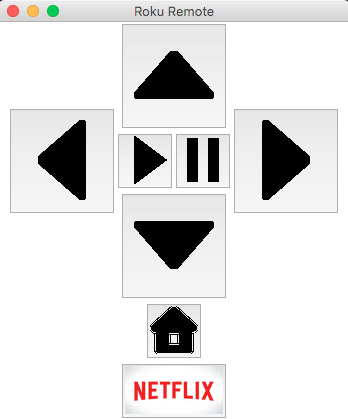
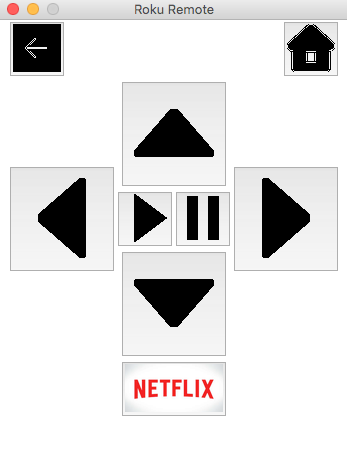
Add home and back button to top

diff --git a/rokuRemote.py b/rokuRemote.py
@@ -56,91 +56,94 @@ class Application(Frame):
 
     def createWidgets(self):
 
-        #TODO: implement search?
-        
+        # TODO: implement search?
+
         # create images for buttons
-        home_button = Image.open("buttons/home_button.png")
+        back_button = Image.open('buttons/back_button.png')
+        back_button = back_button.resize((50, 50), Image.ANTIALIAS)
+        self.back_button = ImageTk.PhotoImage(back_button)
+        home_button = Image.open('buttons/home_button.png')
         home_button = home_button.resize((50, 50), Image.ANTIALIAS)
         self.home_button = ImageTk.PhotoImage(home_button)
         self.left_button = ImageTk.PhotoImage(
-            Image.open("buttons/left_button.png"))
+            Image.open('buttons/left_button.png'))
         self.right_button = ImageTk.PhotoImage(
-            Image.open("buttons/right_button.png"))
+            Image.open('buttons/right_button.png'))
         self.up_button = ImageTk.PhotoImage(
-            Image.open("buttons/up_button.png"))
+            Image.open('buttons/up_button.png'))
         self.down_button = ImageTk.PhotoImage(
-            Image.open("buttons/down_button.png"))
+            Image.open('buttons/down_button.png'))
         self.play_button = ImageTk.PhotoImage(
-            Image.open("buttons/play_button.png"))
+            Image.open('buttons/play_button.png'))
         self.pause_button = ImageTk.PhotoImage(
-            Image.open("buttons/pause_button.png"))
-        netflix_button = Image.open("buttons/netflix_button.jpeg")
+            Image.open('buttons/pause_button.png'))
+        netflix_button = Image.open('buttons/netflix_button.jpeg')
         netflix_button = netflix_button.resize((100, 50), Image.ANTIALIAS)
         self.netflix_button = ImageTk.PhotoImage(netflix_button)
 
         # create buttons
         self.HOME = Button(self)
-        # self.HOME["text"] = "Home"
-        self.HOME["command"] = self.home
+        self.HOME['command'] = self.home
+
+        self.BACK = Button(self)
+        self.BACK['command'] = self.back
 
         self.LEFT = Button(self)
-        self.LEFT["text"] = "Left"
-        self.LEFT["command"] = self.left
+        self.LEFT['command'] = self.left
 
         self.RIGHT = Button(self)
-        self.RIGHT["text"] = "Right"
-        self.RIGHT["command"] = self.right
+        self.RIGHT['command'] = self.right
 
         self.UP = Button(self)
-        self.UP["text"] = "Up"
-        self.UP["command"] = self.up
+        self.UP['command'] = self.up
 
         self.DOWN = Button(self)
-        self.DOWN["text"] = "Down"
-        self.DOWN["command"] = self.down
+        self.DOWN['command'] = self.down
 
         self.NETFLIX = Button(self)
-        self.NETFLIX["text"] = "Netflix",
-        self.NETFLIX["command"] = self.netflix
+        self.NETFLIX['command'] = self.netflix
 
         self.SELECT = Button(self)
-        self.SELECT["text"] = "Select"
-        self.SELECT["command"] = self.select
+        self.SELECT['command'] = self.select
 
         self.PAUSE = Button(self)
-        self.PAUSE["text"] = "Select"
-        self.PAUSE["command"] = self.select
+        self.PAUSE['command'] = self.select
+
+        # back button
+        self.BACK.config(image=self.back_button, width='50', height='50')
+        self.BACK.place(x=0, y=0)
+
+        # home button
+        self.HOME.config(image=self.home_button, width='50', height='50')
+        self.HOME.pack(side='top', anchor=E,  expand=True)
 
         # Netflix button
         self.NETFLIX.config(image=self.netflix_button,
-                            width="100", height="50")
-        self.NETFLIX.pack(side='bottom')
-
-        self.HOME.config(image=self.home_button, width="50", height="50")
-        self.HOME.pack(side='bottom')
+                            width='100', height='50')
+        self.NETFLIX.pack(side='bottom', expand=True)
 
         # left button
-        self.LEFT.config(image=self.left_button, width="100", height="100")
+        self.LEFT.config(image=self.left_button, width='100', height='100')
         self.LEFT.pack(side='left', expand=True)
 
         # right button
-        self.RIGHT.config(image=self.right_button, width="100", height="100")
+        self.RIGHT.config(image=self.right_button, width='100', height='100')
         self.RIGHT.pack(side='right', expand=True)
 
         # up button
-        self.UP.config(image=self.up_button, width="100", height="100")
+        self.UP.config(image=self.up_button, width='100', height='100')
         self.UP.pack(side='top', expand=True)
 
         # down button
-        self.DOWN.config(image=self.down_button, width="100", height="100")
+        self.DOWN.config(image=self.down_button, width='100', height='100')
         self.DOWN.pack(side='bottom', expand=True)
 
         # play button
-        self.SELECT.config(image=self.play_button, width="50", height="50")
+        self.SELECT.config(image=self.play_button, width='50', height='50')
         self.SELECT.pack(side='left', expand=True)
 
         # pause button
-        self.PAUSE.config(image=self.pause_button, width="50", height="50")
+        self.PAUSE.config(image=self.pause_button, width='50', height='50')
         self.PAUSE.pack(side='right', expand=True)
 
     def __init__(self, master=None):
@@ -151,7 +154,8 @@ class Application(Frame):
 
 root = Tk()
 root.title('Roku Remote')
-root.geometry('350x400')
+root.geometry('350x450')
+root.resizable(False,False)
 app = Application(master=root)
 app.mainloop()
 try:
